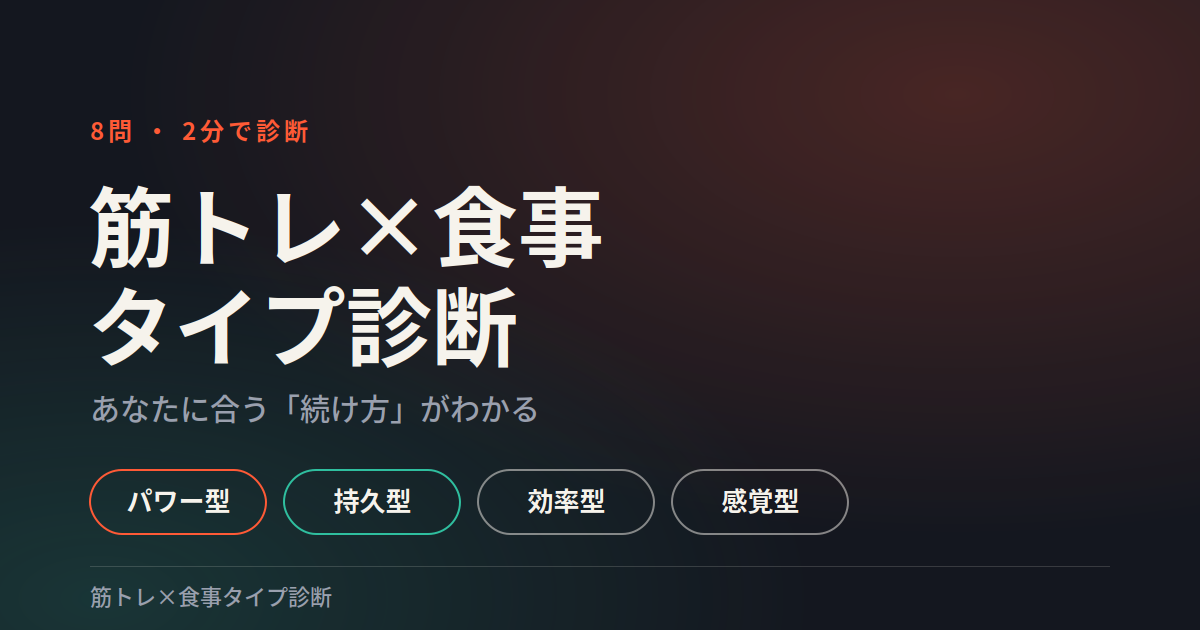
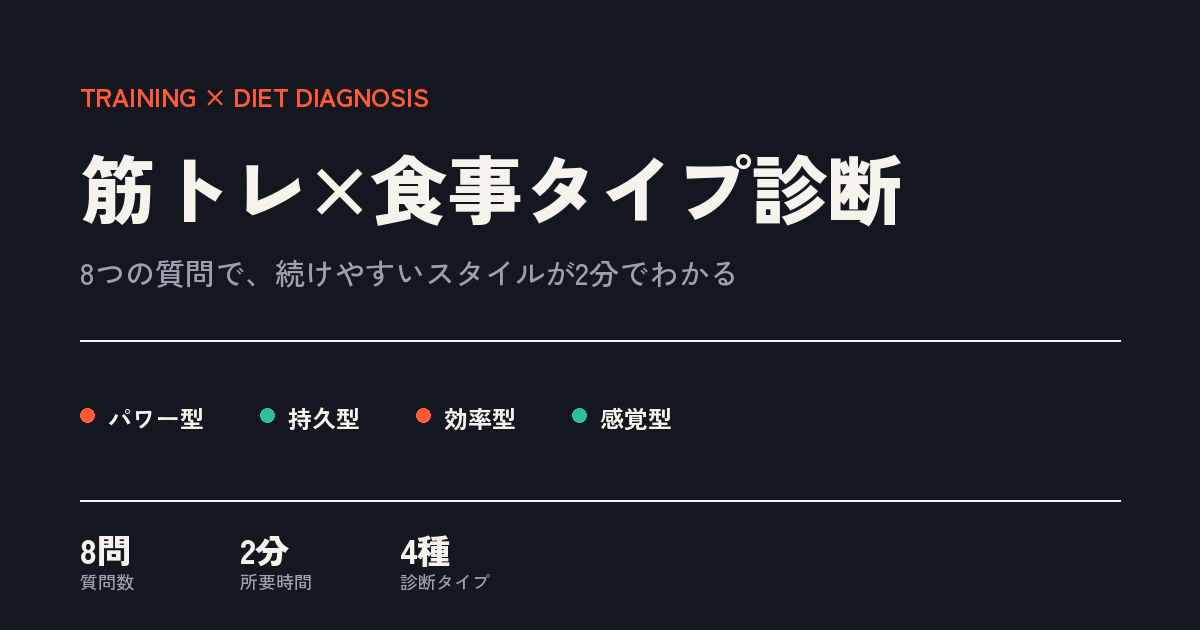
Add files via upload

diff --git a/index.html b/index.html
@@ -193,6 +193,24 @@
     margin-top: 28px;
   }
 
+  .back-btn {
+    display: inline-flex;
+    align-items: center;
+    gap: 6px;
+    background: none;
+    border: none;
+    color: var(--ink-soft);
+    font-family: 'Noto Sans JP', sans-serif;
+    font-size: 13px;
+    cursor: pointer;
+    padding: 0;
+    margin-bottom: 20px;
+    visibility: hidden;
+  }
+
+  .back-btn.visible { visibility: visible; }
+  .back-btn:hover { color: var(--paper); }
+
   /* ---------- RESULT SCREEN ---------- */
   .result-card {
     background: var(--paper);
@@ -264,6 +282,14 @@
 
   .caution b { color: var(--ink); }
 
+  .copy-note {
+    font-size: 12px;
+    color: var(--ink-soft);
+    text-align: center;
+    margin-top: 8px;
+    min-height: 16px;
+  }
+
   .result-actions {
     display: flex;
     gap: 10px;
@@ -280,6 +306,14 @@
   }
   .btn-share:hover { background: #26262e; }
   .btn-share svg { width: 15px; height: 15px; flex-shrink: 0; }
+
+  .btn-line {
+    background: #06C755;
+    color: #fff;
+    border: none;
+  }
+  .btn-line:hover { background: #05b34c; }
+  .btn-line svg { width: 16px; height: 16px; flex-shrink: 0; }
 
   .disclaimer {
     margin-top: 18px;
@@ -330,6 +364,7 @@
     .hero-title { font-size: 32px; }
     .result-type { font-size: 28px; }
     .question-text { font-size: 20px; }
+    .result-actions { flex-direction: column; }
   }
 </style>
 </head>
@@ -366,16 +401,17 @@
     <div class="progress-row">
       <div class="progress-count"><span id="q-current">1</span> <span>/ 8</span></div>
     </div>
-    <div class="progress-track">
+    <div class="progress-track" role="progressbar" aria-label="診断の進行状況" aria-valuemin="0" aria-valuemax="100" id="progress-track">
       <div class="progress-fill" id="progress-fill"></div>
     </div>
-    <div class="question-text" id="question-text"></div>
-    <div class="options" id="options-container"></div>
+    <button class="back-btn" id="back-btn" onclick="goBack()">← 前の質問に戻る</button>
+    <div class="question-text" id="question-text" aria-live="polite"></div>
+    <div class="options" id="options-container" role="group" aria-label="選択肢"></div>
   </div>
 
   <!-- RESULT -->
   <div class="screen" id="screen-result">
-    <div class="result-card">
+    <div class="result-card" aria-live="polite">
       <div class="result-kicker" id="result-kicker">DIAGNOSIS RESULT</div>
       <h2 class="result-type" id="result-type"></h2>
       <p class="result-tagline" id="result-tagline"></p>
@@ -401,11 +437,20 @@
 
     <div class="result-actions">
       <button class="btn btn-share" onclick="shareResult()">
-        <svg viewBox="0 0 24 24" fill="currentColor"><path d="M18.244 2.25h3.308l-7.227 8.26 8.502 11.24H16.17l-5.214-6.817L4.99 21.75H1.68l7.73-8.835L1.254 2.25H8.08l4.713 6.231zm-1.161 17.52h1.833L7.084 4.126H5.117z"/></svg>
+        <svg viewBox="0 0 24 24" fill="currentColor" aria-hidden="true" focusable="false"><path d="M18.244 2.25h3.308l-7.227 8.26 8.502 11.24H16.17l-5.214-6.817L4.99 21.75H1.68l7.73-8.835L1.254 2.25H8.08l4.713 6.231zm-1.161 17.52h1.833L7.084 4.126H5.117z"/></svg>
         結果をシェア
+      </button>
+      <button class="btn btn-line" onclick="shareLine()">
+        <svg viewBox="0 0 24 24" fill="currentColor" aria-hidden="true" focusable="false"><path d="M12 2C6.48 2 2 5.94 2 10.78c0 4.34 3.55 7.98 8.35 8.67.33.07.77.22.88.5.1.26.07.66.03.92l-.14.86c-.04.26-.2 1 .87.55s5.77-3.4 7.87-5.82C21.32 14.09 22 12.5 22 10.78 22 5.94 17.52 2 12 2z"/></svg>
+        LINEでシェア
       </button>
       <button class="btn btn-outline" onclick="restartQuiz()">もう一度診断する</button>
     </div>
+
+    <div class="result-actions" style="margin-top:10px;">
+      <button class="btn btn-outline" onclick="copyResult()">結果をコピー</button>
+    </div>
+    <p class="copy-note" id="copy-note" aria-live="polite"></p>
 
     <p class="disclaimer">
       本診断はエンターテインメント・セルフチェックを目的としたものであり、医学的・栄養学的な診断や助言を目的とするものではありません。持病がある方、妊娠中の方、体調に不安のある方は、トレーニングや食事内容を変更する前に医師・管理栄養士などの専門家にご相談ください。
@@ -534,6 +579,17 @@
 
   let currentQuestion = 0;
   let scores = { P: 0, E: 0, K: 0, F: 0 };
+  let quizQuestions = [];
+  let userAnswers = [];
+
+  function shuffleArray(arr) {
+    const a = arr.slice();
+    for (let i = a.length - 1; i > 0; i--) {
+      const j = Math.floor(Math.random() * (i + 1));
+      [a[i], a[j]] = [a[j], a[i]];
+    }
+    return a;
+  }
 
   function showResultFromType(type) {
     scores = { P: 0, E: 0, K: 0, F: 0 };
@@ -554,6 +610,12 @@
   function startQuiz() {
     currentQuestion = 0;
     scores = { P: 0, E: 0, K: 0, F: 0 };
+    userAnswers = [];
+    // 出題順と選択肢の並びを毎回シャッフルし、位置から結果を予測しにくくする
+    quizQuestions = shuffleArray(questions).map(q => ({
+      text: q.text,
+      options: shuffleArray(q.options)
+    }));
     showScreen('screen-quiz');
     renderQuestion();
   }
@@ -564,10 +626,15 @@
   }
 
   function renderQuestion() {
-    const q = questions[currentQuestion];
+    const q = quizQuestions[currentQuestion];
     document.getElementById('q-current').textContent = currentQuestion + 1;
-    document.getElementById('progress-fill').style.width = ((currentQuestion) / questions.length * 100) + '%';
+    const progressPct = (currentQuestion / quizQuestions.length * 100);
+    document.getElementById('progress-fill').style.width = progressPct + '%';
+    document.getElementById('progress-track').setAttribute('aria-valuenow', Math.round(progressPct));
     document.getElementById('question-text').textContent = q.text;
+
+    const backBtn = document.getElementById('back-btn');
+    backBtn.classList.toggle('visible', currentQuestion > 0);
 
     const container = document.getElementById('options-container');
     container.innerHTML = '';
@@ -582,8 +649,9 @@
 
   function selectOption(type) {
     scores[type]++;
+    userAnswers.push(type);
     currentQuestion++;
-    if (currentQuestion < questions.length) {
+    if (currentQuestion < quizQuestions.length) {
       renderQuestion();
     } else {
       document.getElementById('progress-fill').style.width = '100%';
@@ -591,11 +659,19 @@
     }
   }
 
+  function goBack() {
+    if (currentQuestion === 0) return;
+    currentQuestion--;
+    const lastType = userAnswers.pop();
+    if (lastType) scores[lastType]--;
+    renderQuestion();
+  }
+
   function showResult() {
-    let winner = 'P';
-    typeOrder.forEach(t => {
-      if (scores[t] > scores[winner]) winner = t;
-    });
+    // 同点の場合は常に同じタイプに寄らないよう、最高得点のタイプからランダムに選ぶ
+    const maxScore = Math.max(...typeOrder.map(t => scores[t]));
+    const topTypes = typeOrder.filter(t => scores[t] === maxScore);
+    const winner = topTypes[Math.floor(Math.random() * topTypes.length)];
     showResultInner(winner);
   }
 
@@ -630,19 +706,51 @@
     });
 
     showScreen('screen-result');
+    const note = document.getElementById('copy-note');
+    if (note) note.textContent = '';
   }
 
   function restartQuiz() {
     startQuiz();
   }
 
+  function getDisplayedResultType() {
+    const label = document.getElementById('result-type').textContent;
+    return typeOrder.find(t => results[t].type === label) || 'P';
+  }
+
   function shareResult() {
-    const winner = Object.keys(scores).reduce((a, b) => (scores[b] > scores[a] ? b : a));
+    const winner = getDisplayedResultType();
     const r = results[winner];
     const text = `私の続けやすいトレーニング×食事タイプは「${r.type}」でした!\n${r.tagline}\n\n#筋トレ食事タイプ診断`;
     const url = window.location.href.split('?')[0] + '?type=' + winner;
     const shareUrl = 'https://twitter.com/intent/tweet?text=' + encodeURIComponent(text) + '&url=' + encodeURIComponent(url);
     window.open(shareUrl, '_blank', 'noopener,noreferrer,width=600,height=500');
+  }
+
+  function shareLine() {
+    const winner = getDisplayedResultType();
+    const r = results[winner];
+    const text = `私の続けやすいトレーニング×食事タイプは「${r.type}」でした!\n${r.tagline}\n\n#筋トレ食事タイプ診断`;
+    const url = window.location.href.split('?')[0] + '?type=' + winner;
+    const shareUrl = 'https://line.me/R/msg/text/?' + encodeURIComponent(text + '\n' + url);
+    window.open(shareUrl, '_blank', 'noopener,noreferrer');
+  }
+
+  function copyResult() {
+    const winner = getDisplayedResultType();
+    const r = results[winner];
+    const text = `【筋トレ×食事タイプ診断】\n私は「${r.type}」でした。\n${r.tagline}\n\nあなたのタイプは?\n${window.location.href.split('?')[0]}`;
+    const note = document.getElementById('copy-note');
+    if (navigator.clipboard) {
+      navigator.clipboard.writeText(text).then(() => {
+        note.textContent = 'コピーしました。好きな場所に貼り付けてシェアできます。';
+      }).catch(() => {
+        note.textContent = 'コピーに失敗しました。手動で選択してコピーしてください。';
+      });
+    } else {
+      note.textContent = 'このブラウザではコピー機能が利用できません。';
+    }
   }
 
   initFromUrl();
